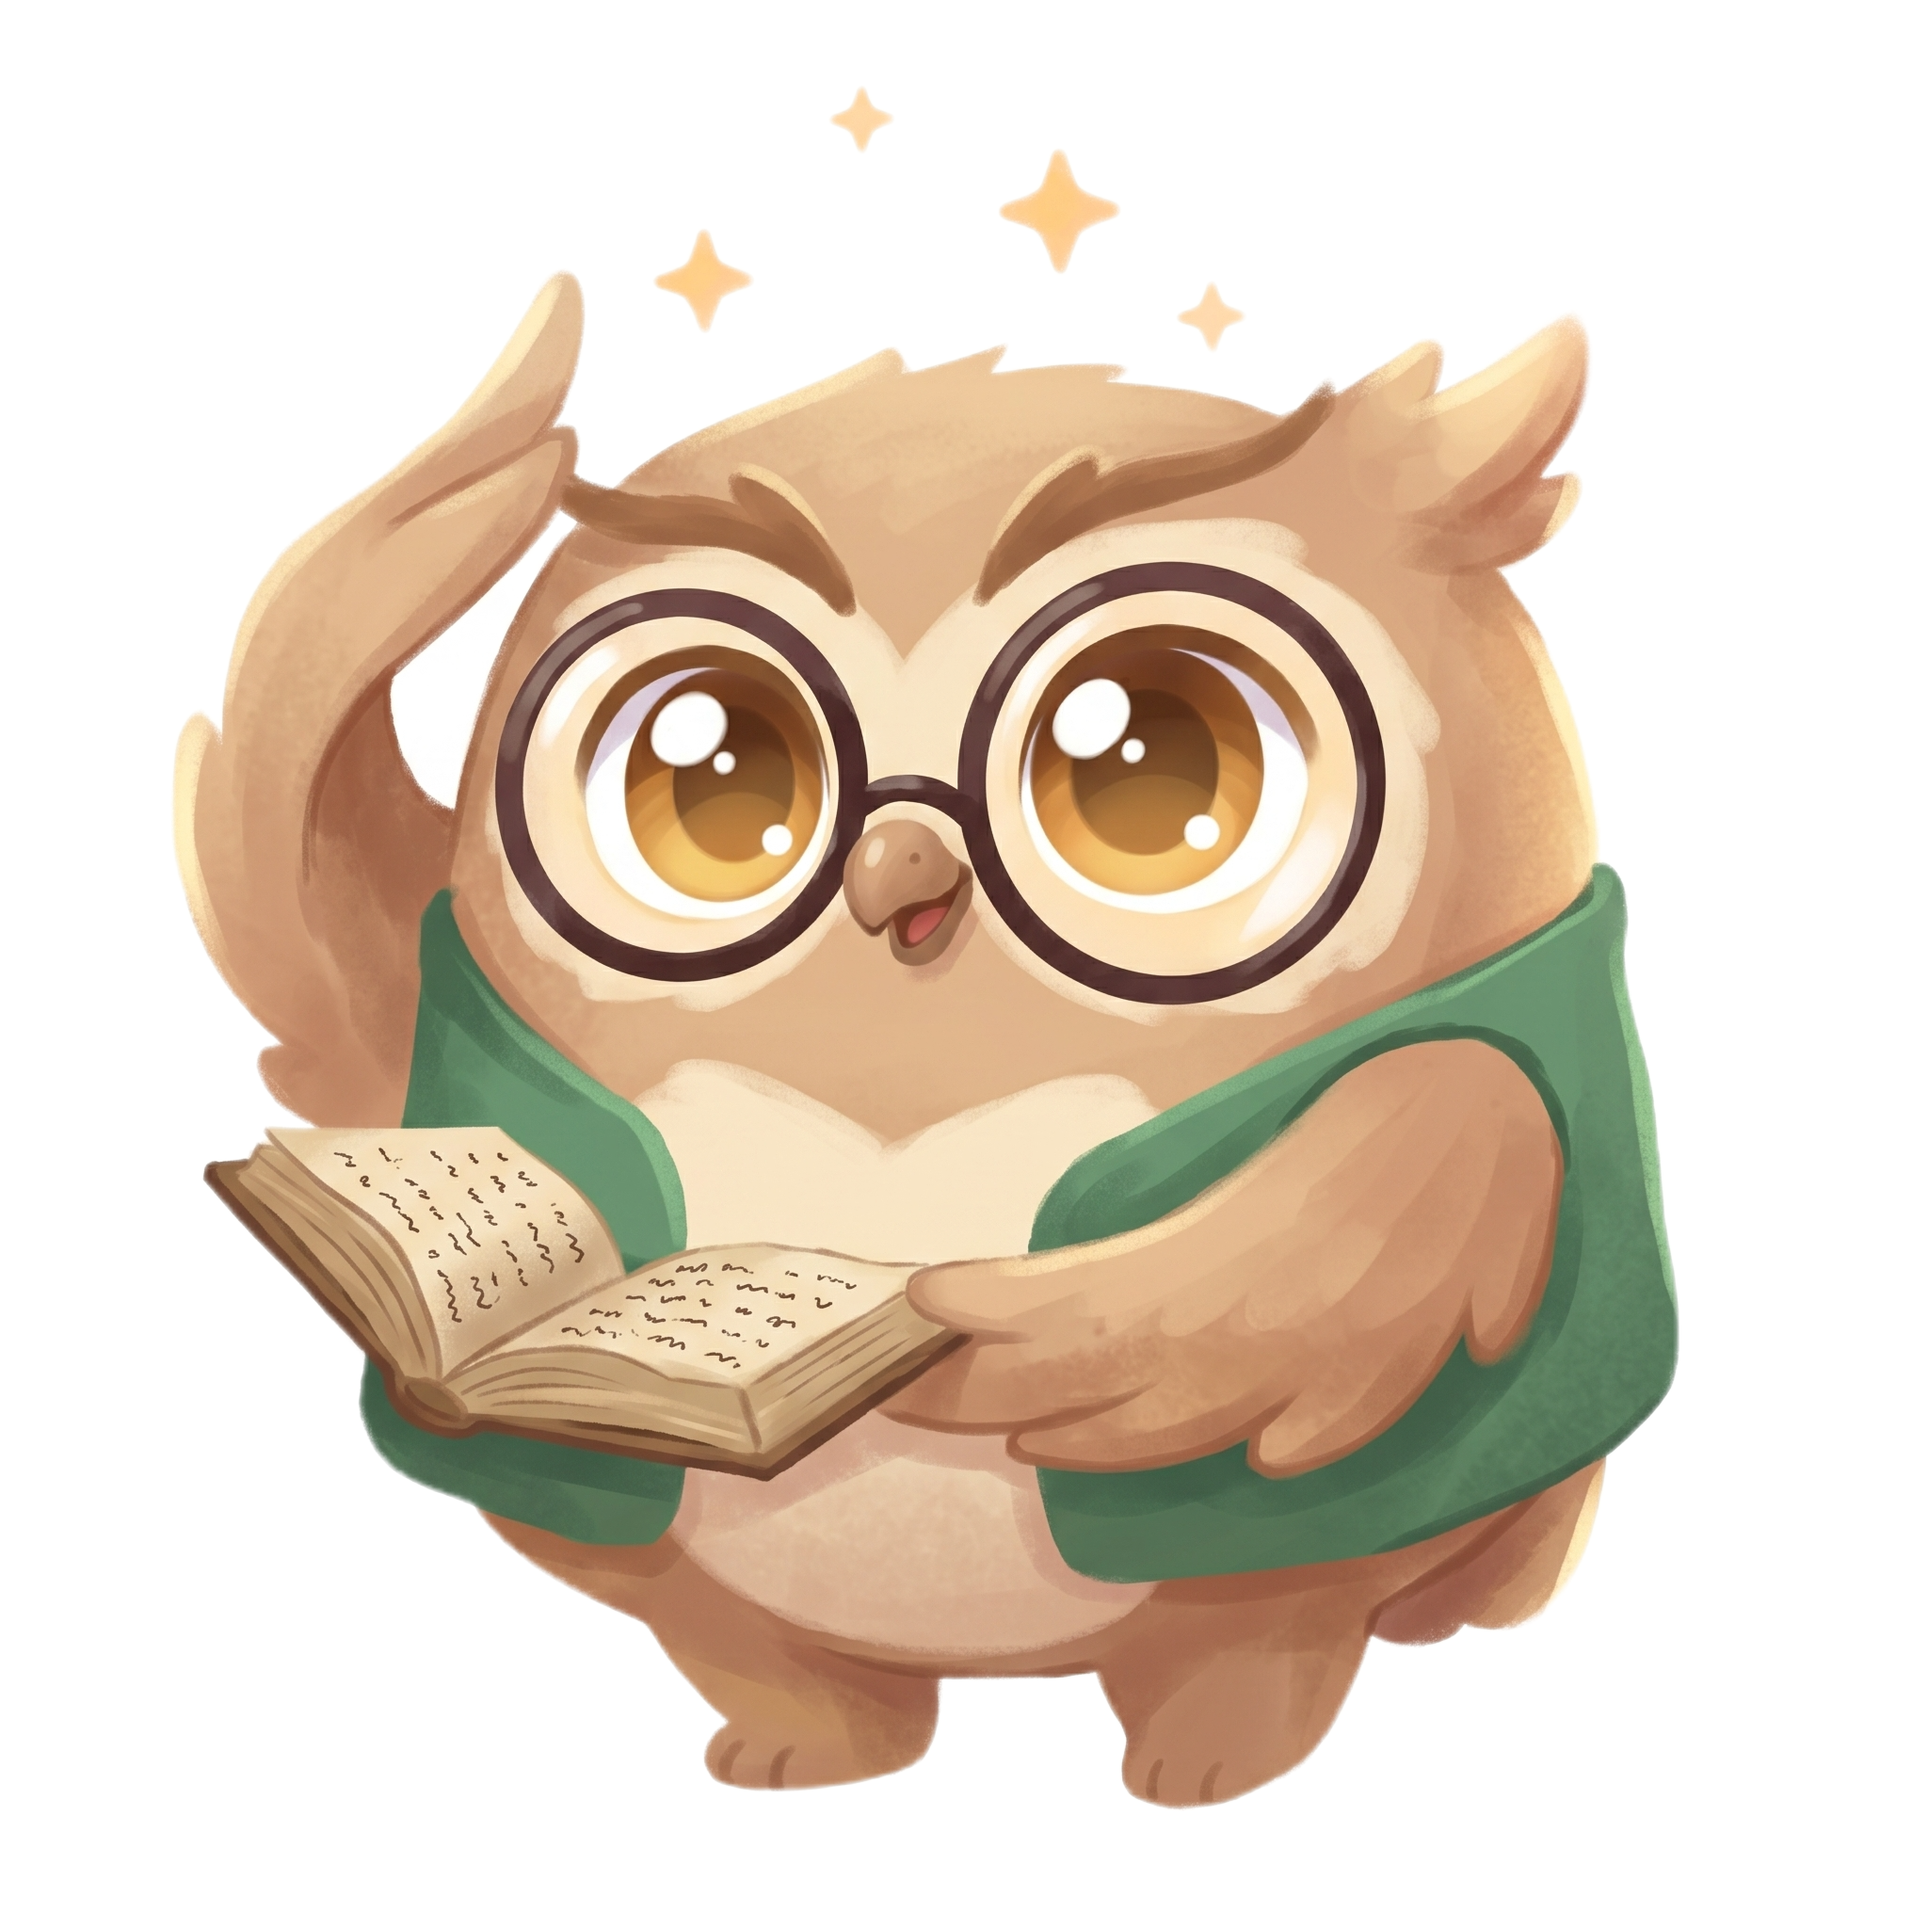
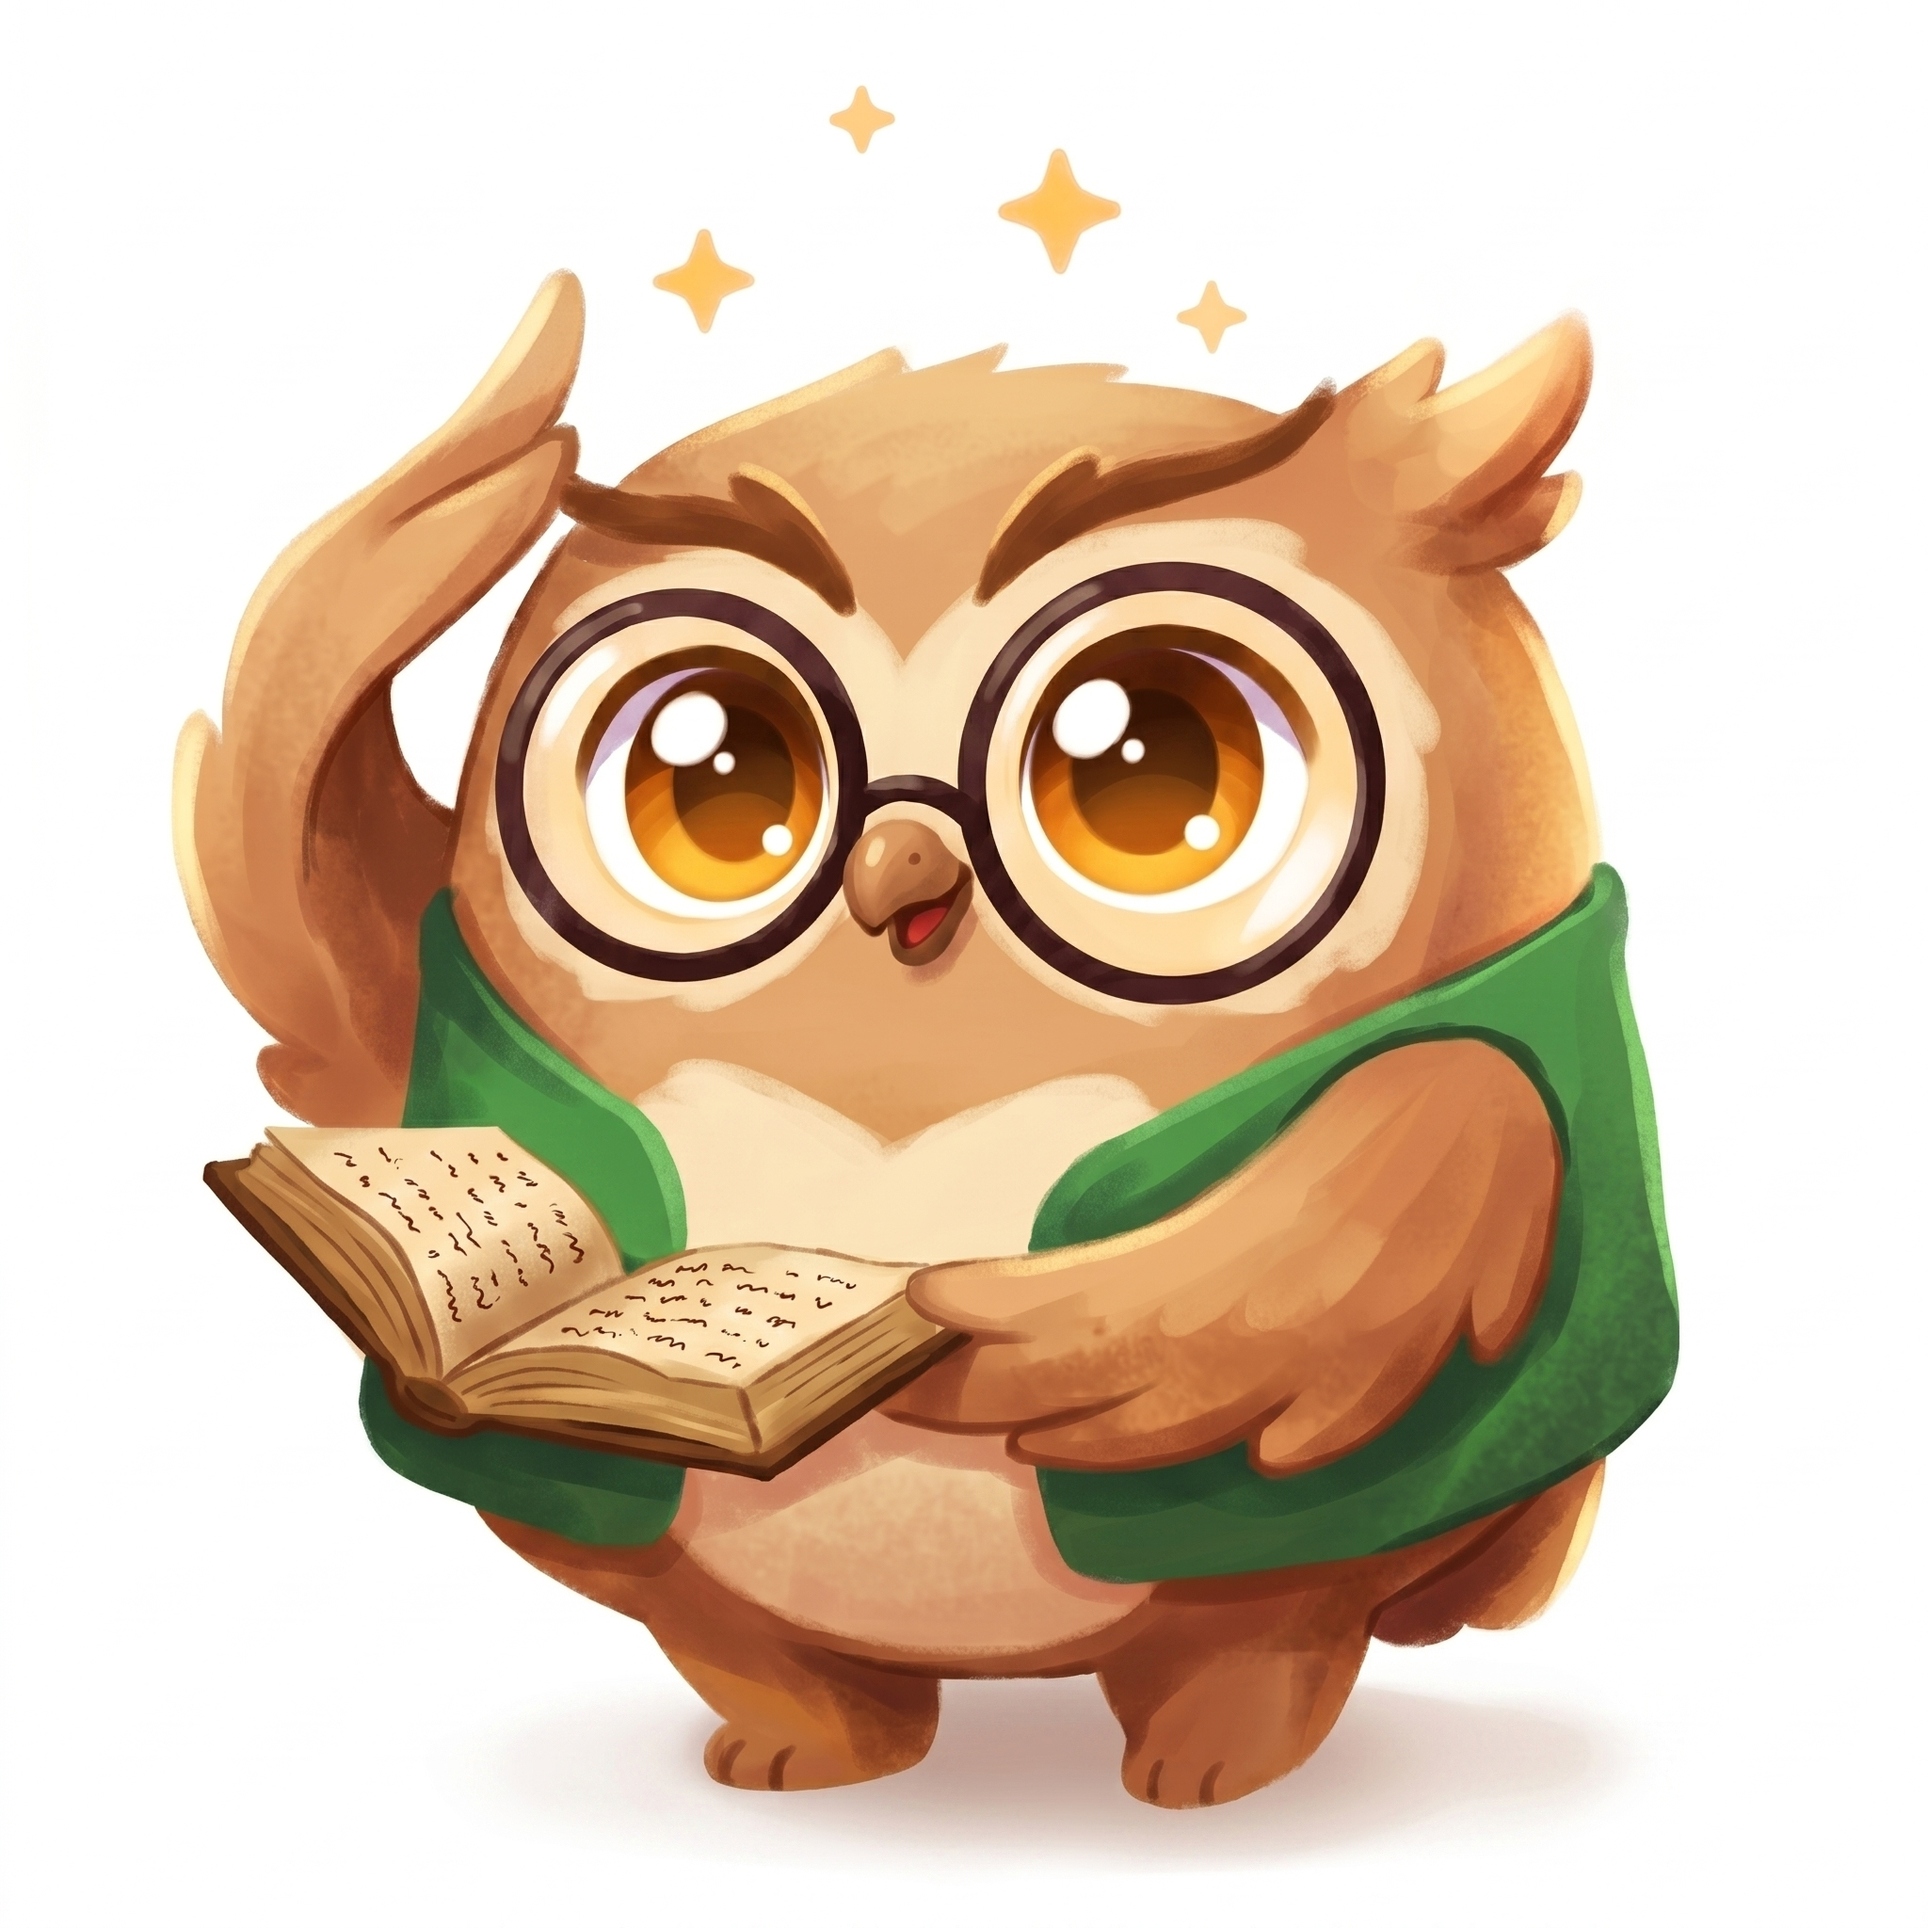
Update character images to brighter versions, update CLAUDE.md
- Replace owl.png and captain.png with brighter, more vivid illustrations
- Update CLAUDE.md: Spark → Киди rebrand, 4→3 characters, new character names,
  PNG avatars, favicon done, new pages documented

diff --git a/CLAUDE.md b/CLAUDE.md
@@ -44,7 +44,7 @@ kidion/
 │   ├── content_generator.py   # Saves lesson HTML/PNG/JSON to content/
 │   ├── curricula.py           # Load/search curriculum JSON files
 │   ├── universe.py            # Universe/character/shop generation (Gemini)
-│   ├── kid_chat.py            # Spark AI chat: 4 characters, per-character safety prompts
+│   ├── kid_chat.py            # Киди AI chat: 3 characters, per-character safety prompts
 │   └── worksheet/             # Printable worksheet generation (from metodist)
 │       ├── models.py           # Pydantic models: 24 task types + 3 activities
 │       ├── prompts.py          # Prompts for worksheet/activity generation
@@ -63,21 +63,28 @@ kidion/
 │   ├── home.html              # Kid home: character avatar + subjects + streak + shop btn
 │   ├── character.html         # RPG character page + star shop + name editing + speech bubble
 │   ├── subject_map.html       # Duolingo-style vertical lesson map with tooltip
-│   ├── chat.html              # Spark AI chat (single assistant, simple layout)
+│   ├── chat.html              # Киди AI chat (single assistant, simple layout)
 │   ├── lesson.html            # Lesson iframe + auto-score via postMessage
 │   └── result.html            # Stars animation + confetti + shop button
 ├── templates/spark/
-│   ├── chat.html              # New Spark Chat (multi-character, Geist font)
-│   ├── landing.html           # Spark Chat landing page (/spark)
-│   └── subscribe.html         # Subscription purchase page (/spark/subscribe)
+│   ├── chat.html              # Киди Chat (multi-character, Geist font)
+│   ├── landing.html           # Киди Chat landing page (/spark)
+│   ├── login.html             # Киди Chat login page
+│   ├── register.html          # Киди Chat registration (simplified)
+│   ├── subscribe.html         # Subscription purchase page (/spark/subscribe)
+│   └── report.html            # Weekly parent report page
 ├── static/spark/
 │   ├── chat.css               # Chat CSS (oklch, per-character tints)
 │   ├── landing.css            # Landing page CSS
 │   ├── chat.js                # Multi-character chat JS
-│   └── spark-hero.png         # Spark character PNG
+│   ├── spark-hero.png         # Киди character PNG
+│   ├── owl.png                # Профессор Уху character PNG
+│   ├── captain.png            # Сказочник Лука character PNG
+│   ├── favicon.ico            # Favicon (from Киди image)
+│   └── apple-touch-icon.png   # Apple touch icon
 ├── static/kid/style.css       # Kid CSS (Nunito, pastels, mobile-first)
-├── static/kid/img/spark.png   # Spark avatar image
-├── static/kid/chat.js         # Chat page JS (legacy single-Spark)
+├── static/kid/img/spark.png   # Киди avatar image (legacy kid interface)
+├── static/kid/chat.js         # Chat page JS (legacy single-Киди)
 ├── content/                   # Generated lesson HTML/PNG + characters/ (gitignored)
 ├── content/characters/        # Generated character PNGs: {child_id}.png
 └── tests/                     # 306 tests across 16 test files
@@ -107,7 +114,7 @@ kidion/
 | `kid_chats` | Kid AI chat sessions | child_id, character_key, title |
 | `kid_chat_messages` | Chat messages | chat_id, role (user/assistant), content, image_url |
 | `chat_subscriptions` | Chat subscription (parent) | user_id, started_at, expires_at, images_remaining, amount_rub |
-| `chat_characters` | Seeded chat characters (4) | key, name_ru, role_ru, system_prompt, greeting_ru, is_free |
+| `chat_characters` | Seeded chat characters (3) | key, name_ru, role_ru, system_prompt, greeting_ru, is_free |
 
 ## Personalized Universe & Character System
 
@@ -148,23 +155,22 @@ All generation functions return predefined defaults when neither `GEMINI_API_KEY
 - **Crystals**: Parent currency. Bought with real money, spent on lesson generation and chat subscription. Child never sees crystals.
 - **Stars**: Child currency. Earned by completing lessons (+1 per correct task, max 5 per lesson). Spent in character shop. Stored in `children.stars`.
 
-## Spark Chat (chat.kidion.ru)
+## Киди Chat (chat.kidion.ru)
 
 Multi-character AI chat for children. New design at `/spark/chat`, landing at `/spark`.
 
-### 4 Characters
+### 3 Characters
 | Character | Key | Role | Tier | Model |
 |-----------|-----|------|------|-------|
-| Спарк | spark | Универсальный друг | free | gemini-2.5-flash |
-| Профессор Сова | owl | Учитель | pro | gemini-2.5-flash |
-| Капитан Сказка | captain | Рассказчик | pro | gemini-2.5-flash |
-| Друг Пикси | pixie | Ровесник | pro | gemini-2.5-flash |
+| Киди | spark | Универсальный друг | free | gemini-2.5-flash |
+| Профессор Уху | owl | Учитель | pro | gemini-2.5-flash |
+| Сказочник Лука | captain | Рассказчик | pro | gemini-2.5-flash |
 
-Each has a unique system prompt layered on shared safety rules (10 rules in `_SAFETY_BASE`). Per-character chat history (separate `kid_chats` row per child+character). SVG avatars for Owl/Captain/Pixie, PNG for Spark.
+Each has a unique system prompt layered on shared safety rules (10 rules in `_SAFETY_BASE`). Per-character chat history (separate `kid_chats` row per child+character). All characters use PNG avatar images (`static/spark/`).
 
 ### Subscription & Limits
-- **Free:** 10 messages/day, only Spark, no voice/images
-- **Pro (500 ₽/month real money):** 100 msg/day, all 4 characters, voice input, 30 AI images/month included, parent reports
+- **Free:** 10 messages/day, only Киди, no voice/images
+- **Pro (500 ₽/month real money):** 100 msg/day, all 3 characters, voice input, 30 AI images/month included, parent reports
 - **Extra images:** 5💎 per image (from crystal balance)
 - Limits counted across all children of the same parent
 - Subscription page: `/spark/subscribe` (parent auth)
@@ -187,7 +193,7 @@ Web Speech API (browser-side, free). Opens overlay, speech → text → editable
 - **Packages:** 60/60 rub, 360/320 rub, 600/490 rub, 1000/800 rub
 - **Adaptive difficulty** (1-3): auto-adjusts based on last 2 lesson results
 - **Auto-scoring:** iframe postMessage → auto-submit result. Stub mode → 5/5.
-- **Chat subscription:** 500 rub/month (real money), 100 msg/day (10 free), 30 images/month, extra images 5💎 each.
+- **Chat subscription:** 500 rub/month (real money), 100 msg/day (10 free), 30 images/month, extra images 5💎 each. 3 characters (was 4, Pixie removed).
 
 ## API Endpoints
 
@@ -223,13 +229,16 @@ Web Speech API (browser-side, free). Opens overlay, speech → text → editable
 - `/kid/character` — RPG character page + star shop + name editing + speech bubble
 - `/kid/subject/{subject}` — Duolingo-style lesson map with tooltip
 - `/kid/lesson/{id}` — lesson iframe + print button
-- `/kid/chat` — AI chat with Spark (legacy single assistant)
+- `/kid/chat` — AI chat with Киди (legacy single assistant)
 - `/kid/result/{id}` — confetti + stars animation + shop button
 
-### Spark Chat
+### Киди Chat
 - `/spark` — landing page (public, no auth)
 - `/spark/chat` — multi-character chat (child auth via PIN)
+- `/spark/login` — login page (parent auth → pick child → PIN)
+- `/spark/register` — simplified registration (parent + child, no universe)
 - `/spark/subscribe` — subscription purchase (parent auth)
+- `/spark/report/{child_id}` — weekly parent report
 
 ### Parent
 - `/dashboard`, `/children/new`, `/children/{id}`, `/children/{id}/subject/{subject}`, `/children/{id}/history`
@@ -250,7 +259,7 @@ Web Speech API (browser-side, free). Opens overlay, speech → text → editable
 | `gemini-2.5-pro` | Lesson Step 1: Methodologist (rules, mnemonics) | gemini_client.py |
 | `gemini-3.1-pro-preview` | Lesson Step 2: Tutor-Gamer (JSON lesson + tasks), Universe + character generation | gemini_client.py, universe.py |
 | `gemini-2.5-flash-lite` | Lesson Step 3: Visual layout, image prompts | gemini_client.py |
-| `gemini-2.5-flash` | Kid chat (Spark), shop items, character/lesson images (Vertex only) | kid_chat.py, universe.py, image_generator.py |
+| `gemini-2.5-flash` | Kid chat (Киди), shop items, character/lesson images (Vertex only) | kid_chat.py, universe.py, image_generator.py |
 
 ### Architecture
 - `services/ai_client.py` — `StudioModel` class wraps google-genai to mimic Vertex AI `GenerativeModel` interface
@@ -279,15 +288,17 @@ uvicorn main:app --host 127.0.0.1 --port 8003 --reload
 - [x] Deploy to VPS (systemd + nginx + certbot SSL)
 - [x] DNS: A-record kidion.ru -> 72.56.126.111
 - [ ] YooKassa: get real SHOP_ID and SECRET_KEY (for crystal packages + chat subscription)
-- [x] Spark Chat: subdomain chat.kidion.ru (nginx + DNS + cookie domain=.kidion.ru)
-- [x] Spark Chat: AI image generation in chat (detect "нарисуй", call Vertex AI)
-- [x] Spark Chat: parent reports (weekly chat summaries)
-- [x] Spark Chat: independent registration flow (simplified, no universe)
+- [x] Киди Chat: subdomain chat.kidion.ru (nginx + DNS + cookie domain=.kidion.ru)
+- [x] Киди Chat: AI image generation in chat (detect "нарисуй", call Vertex AI)
+- [x] Киди Chat: parent reports (weekly chat summaries)
+- [x] Киди Chat: independent registration flow (simplified, no universe)
+- [x] Киди Chat: rebrand Spark → Киди, remove Pixie, rename Owl → Уху, Captain → Лука
 - [x] Connect print worksheet generation (worksheets generated alongside lessons)
 - [ ] Add curricula for grades 3-4 and more subjects (world)
 - [x] Pass universe_description into lesson generation prompts (so lessons are themed)
 - [ ] Update registry.json with kidion entry
-- [ ] Favicon, 404 page, rate limiting on auth
+- [x] Favicon (from Киди character image)
+- [ ] 404 page, rate limiting on auth
 - [ ] Cloud backup for DB (Cloudflare R2) — when real users appear
 
 ## Eval System (Quality Monitoring)
